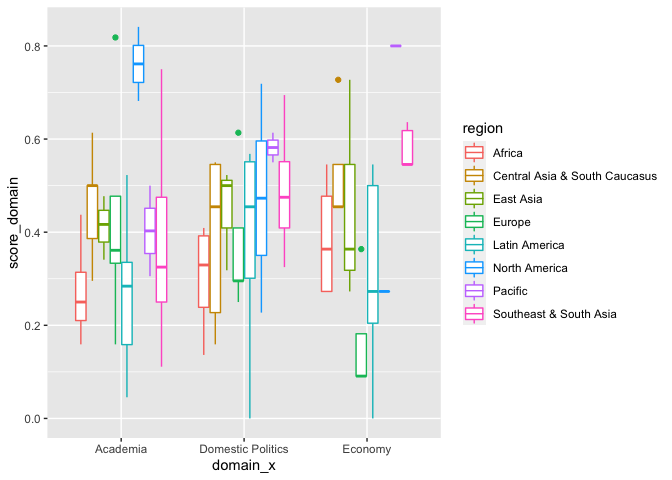
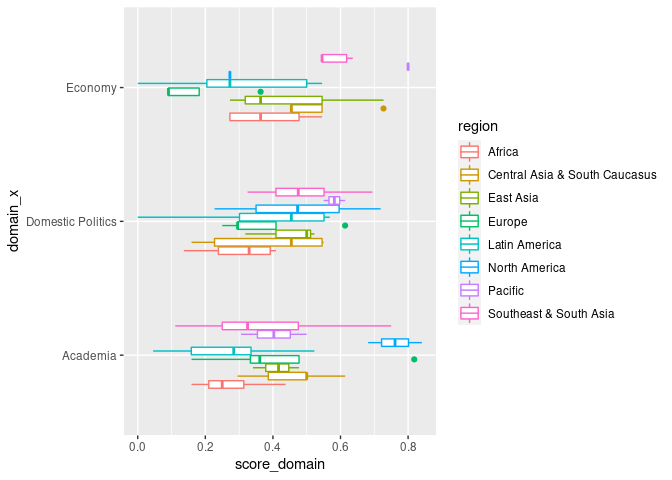
revised plot

Changed region(s): [[0.0, 0.0, 0.6562, 1.0], [0.6875, 0.25, 1.0, 0.6875], [0.5625, 0.2188, 0.5938, 0.25]]

diff --git a/China_Index.md b/China_Index.md
@@ -1,4 +1,4 @@
-China\_Index
+China_Index
 ================
 Ben P-S- Lee
 04/15/2022
@@ -16,12 +16,12 @@ power**, China Index is a project developed by Doublethinklab (DTL).
 library(tidyverse)
 ```
 
-    ## ── Attaching packages ─────────────────────────────────────── tidyverse 1.3.0 ──
+    ## ── Attaching packages ─────────────────────────────────────── tidyverse 1.3.1 ──
 
-    ## ✓ ggplot2 3.3.2     ✓ purrr   0.3.4
-    ## ✓ tibble  3.0.4     ✓ dplyr   1.0.2
-    ## ✓ tidyr   1.1.2     ✓ stringr 1.4.0
-    ## ✓ readr   1.4.0     ✓ forcats 0.5.0
+    ## ✓ ggplot2 3.3.5     ✓ purrr   0.3.4
+    ## ✓ tibble  3.1.6     ✓ dplyr   1.0.8
+    ## ✓ tidyr   1.2.0     ✓ stringr 1.4.0
+    ## ✓ readr   2.1.2     ✓ forcats 0.5.1
 
     ## ── Conflicts ────────────────────────────────────────── tidyverse_conflicts() ──
     ## x dplyr::filter() masks stats::filter()
@@ -87,7 +87,7 @@ gdp_pop <- wb_data(indicator = c("SP.POP.TOTL","NY.GDP.PCAP.CD"), start_date = 2
 ``` r
 china_index_country <- china_index %>%
   group_by(country, `Focus Region`) %>%
-  summarise(score_nor = (sum(score, na.rm = TRUE)/sum(total_score, na.rm = TRUE)), total_score = sum(score, na.rm = TRUE)) %>%
+  summarise(score_nor = (sum(score_v1, na.rm = TRUE)/sum(total_score, na.rm = TRUE)), total_score = sum(score_v1, na.rm = TRUE)) %>%
   arrange(desc(score_nor)) %>%
   left_join(gdp_pop, by = "country") %>%
   select(-iso2c, -iso3c, -date) %>%
@@ -95,7 +95,8 @@ china_index_country <- china_index %>%
   column_to_rownames(var = "country")
 ```
 
-    ## `summarise()` regrouping output by 'country' (override with `.groups` argument)
+    ## `summarise()` has grouped output by 'country'. You can override using the
+    ## `.groups` argument.
 
 ``` r
 china_index_country["Kyrgyzstan", "gdp"] <- 1173.61
@@ -113,16 +114,18 @@ china_index_country["Venezuela", "pop"] <- 28435940 #UNdata 2020
 china_index_domain <- china_index %>%
   group_by(country, `Focus Region`, domain_x) %>%
   rename(region = `Focus Region` ) %>%
-  summarise(score_domain = (sum(score, na.rm = TRUE)/sum(total_score, na.rm = TRUE))) %>%
-  left_join(gdp_pop, by = "country")
+  summarise(score_domain = (sum(score_v1, na.rm = TRUE)/sum(total_score, na.rm = TRUE))) %>%
+  left_join(gdp_pop, by = "country") %>%
+  arrange(region, domain_x, desc(score_domain))
 ```
 
-    ## `summarise()` regrouping output by 'country', 'region' (override with `.groups` argument)
+    ## `summarise()` has grouped output by 'country', 'region'. You can override using
+    ## the `.groups` argument.
 
 ``` r
 china_index_domain %>%
   filter(domain_x == c("Academia", "Domestic Politics", "Economy")) %>%
-  ggplot(aes(x = domain_x, y = score_domain)) + geom_boxplot(aes(color = region))
+  ggplot(aes(x = domain_x, y = score_domain)) + geom_boxplot(aes(color = region), width =0.5) + coord_flip()
 ```
 
 ![](China_Index_files/figure-gfm/plot-1.png)<!-- -->
@@ -130,7 +133,7 @@ china_index_domain %>%
 ``` r
 china_index_domain %>%
   filter(domain_x == c("Foreign Policy", "Law Enforcement", "Media")) %>%
-  ggplot(aes(x = domain_x, y = score_domain)) + geom_boxplot(aes(color = region))
+  ggplot(aes(x = domain_x, y = score_domain)) + geom_boxplot(aes(color = region), width = 0.5) + coord_flip()
 ```
 
 ![](China_Index_files/figure-gfm/plot-2.png)<!-- -->
@@ -138,7 +141,7 @@ china_index_domain %>%
 ``` r
 china_index_domain %>%
   filter(domain_x == c("Military", "Society", "Technology")) %>%
-  ggplot(aes(x = domain_x, y = score_domain)) + geom_boxplot(aes(color = region))
+  ggplot(aes(x = domain_x, y = score_domain)) + geom_boxplot(aes(color = region), width = 0.5) + coord_flip()
 ```
 
 ![](China_Index_files/figure-gfm/plot-3.png)<!-- -->
